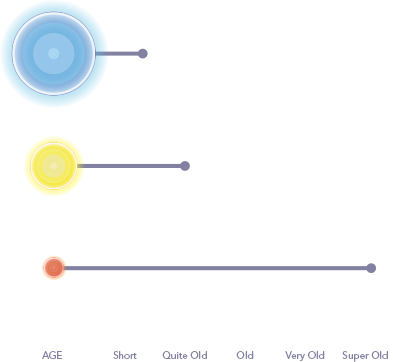
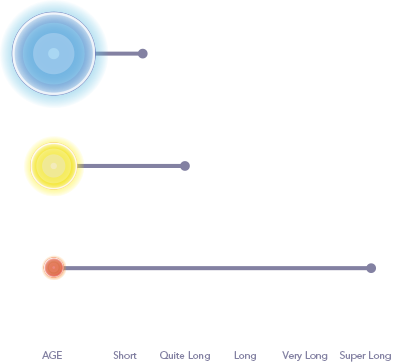
Add chart part

Changed region(s): [[0.7023, 0.9724, 1.0, 1.0], [0.3969, 0.9724, 0.5496, 1.0], [0.5802, 0.9724, 0.6718, 1.0]]

diff --git a/src/components/star/mass.vue b/src/components/star/mass.vue
@@ -40,7 +40,17 @@
           </p>
         </div>
       </div>
-      <div class="row chart"></div>
+      <div class="row chart">
+        <div class="col-xs-12 col-sm-6">
+          <img src="../../assets/images/star/mass/age.png" alt="" class="img-responsive center-block">
+        </div>
+        <div class="visible-xs col-xs-12 margin"></div>
+        <div class="col-xs-12 col-sm-6">
+          <p>
+            The low mass stars on the other hand have a relatively weaker pressure in its core thus making the fusion of hydrogen and helium occur only in its small core. The hydrogen and helium in the low mass star are mixed together and stays convective which means the stars still have a lot of fuel to burn up. Because of this process, the low mass stars have a longer lifespan than high mass stars. A very low mass star like a small red dwarf can have a lifespan of a trillion years. The universe itself is still less than 14 bullion years old, this means that the oldest red dwarf that exists now is still in their infant state.
+          </p>
+        </div>
+      </div>
       <div class="row">
         <div class="col-xs-12">
           <div class="pagination">
@@ -68,6 +78,10 @@ export default {};
 <style lang="scss" scoped>
 @import "../../assets/css/variables.scss";
 
+.margin {
+  height: 40px;
+}
+
 .margin-section {
   height: 85px;
 }
@@ -93,6 +107,11 @@ export default {};
     padding-top: 40px;
   }
 }
+
+.chart {
+  padding-top: 40px;
+}
+
 .pagination {
   margin-top: 40px;
   width: 100%;
